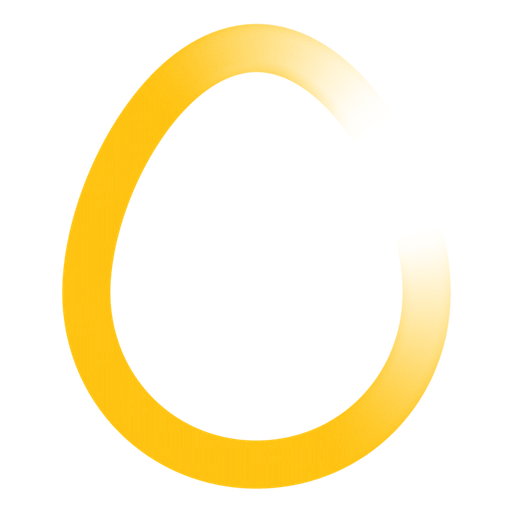
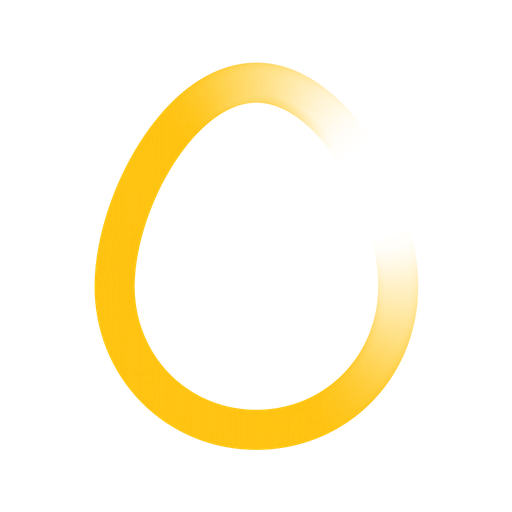
deploy: whiskeyjack-net/whiskeyjack-apps@2d9b521102e7aa383910c2082ae49668cec3e528

Changed region(s): [[0.0938, 0.0312, 0.9062, 0.9688]]

diff --git a/chip-away/sw.js b/chip-away/sw.js
@@ -1,1 +1,1 @@
-if(!self.define){let e,s={};const i=(i,n)=>(i=new URL(i+".js",n).href,s[i]||new Promise(s=>{if("document"in self){const e=document.createElement("script");e.src=i,e.onload=s,document.head.appendChild(e)}else e=i,importScripts(i),s()}).then(()=>{let e=s[i];if(!e)throw new Error(`Module ${i} didn’t register its module`);return e}));self.define=(n,r)=>{const l=e||("document"in self?document.currentScript.src:"")||location.href;if(s[l])return;let o={};const a=e=>i(e,l),c={module:{uri:l},exports:o,require:a};s[l]=Promise.all(n.map(e=>c[e]||a(e))).then(e=>(r(...e),o))}}define(["./workbox-b20fbdff"],function(e){"use strict";self.skipWaiting(),e.clientsClaim(),e.precacheAndRoute([{url:"registerSW.js",revision:"35bf5d2d51c97a9993682f24afbb047e"},{url:"index.html",revision:"65da58e8de5f0495ba9ba0568a753ecb"},{url:"assets/window-BoBZToBr.js",revision:null},{url:"assets/menu-DGefLJE0.js",revision:null},{url:"assets/index-TJLpvGPC.css",revision:null},{url:"assets/index-C6RnGhCb.js",revision:null},{url:"assets/image-Cbbw5NPR.js",revision:null},{url:"assets/event-Cbxzybo5.js",revision:null},{url:"assets/dpi-CubZyH2U.js",revision:null},{url:"assets/core-DxiqUsK0.js",revision:null},{url:"favicon.ico",revision:"ed4c63f7f87862d45e992d78af0e145e"},{url:"apple-touch-icon.png",revision:"a03cf85e616b39cf2f7ac2ae89d7c106"},{url:"pwa-192x192.png",revision:"e4990c2e13e0cc4ac2048da2050f8252"},{url:"pwa-512x512.png",revision:"1c846ba190bb6941c2c03c7bf05551a6"},{url:"pwa-maskable-192x192.png",revision:"c84cd7fd5be699d0cfe0f0c988c7e829"},{url:"pwa-maskable-512x512.png",revision:"2bfb8379c8f92d0405a15d52814a7a11"},{url:"manifest.webmanifest",revision:"a0f3c87e716382a09e3635a374445d45"}],{}),e.cleanupOutdatedCaches(),e.registerRoute(new e.NavigationRoute(e.createHandlerBoundToURL("index.html")))});
+if(!self.define){let e,s={};const i=(i,n)=>(i=new URL(i+".js",n).href,s[i]||new Promise(s=>{if("document"in self){const e=document.createElement("script");e.src=i,e.onload=s,document.head.appendChild(e)}else e=i,importScripts(i),s()}).then(()=>{let e=s[i];if(!e)throw new Error(`Module ${i} didn’t register its module`);return e}));self.define=(n,r)=>{const l=e||("document"in self?document.currentScript.src:"")||location.href;if(s[l])return;let o={};const a=e=>i(e,l),u={module:{uri:l},exports:o,require:a};s[l]=Promise.all(n.map(e=>u[e]||a(e))).then(e=>(r(...e),o))}}define(["./workbox-b20fbdff"],function(e){"use strict";self.skipWaiting(),e.clientsClaim(),e.precacheAndRoute([{url:"registerSW.js",revision:"35bf5d2d51c97a9993682f24afbb047e"},{url:"index.html",revision:"65da58e8de5f0495ba9ba0568a753ecb"},{url:"assets/window-BoBZToBr.js",revision:null},{url:"assets/menu-DGefLJE0.js",revision:null},{url:"assets/index-TJLpvGPC.css",revision:null},{url:"assets/index-C6RnGhCb.js",revision:null},{url:"assets/image-Cbbw5NPR.js",revision:null},{url:"assets/event-Cbxzybo5.js",revision:null},{url:"assets/dpi-CubZyH2U.js",revision:null},{url:"assets/core-DxiqUsK0.js",revision:null},{url:"favicon.ico",revision:"ed4c63f7f87862d45e992d78af0e145e"},{url:"apple-touch-icon.png",revision:"a03cf85e616b39cf2f7ac2ae89d7c106"},{url:"pwa-192x192.png",revision:"b251fa23b0fd8fb75b342a5f4d2f2b1d"},{url:"pwa-512x512.png",revision:"ad58aa35beb1e07efd640a45382be625"},{url:"pwa-maskable-192x192.png",revision:"fa76a18bcb45073eb596851c11d6443f"},{url:"pwa-maskable-512x512.png",revision:"85b65372aff6212a0be74b72440de74f"},{url:"manifest.webmanifest",revision:"a0f3c87e716382a09e3635a374445d45"}],{}),e.cleanupOutdatedCaches(),e.registerRoute(new e.NavigationRoute(e.createHandlerBoundToURL("index.html")))});
